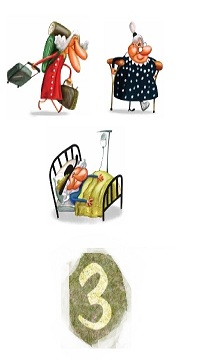
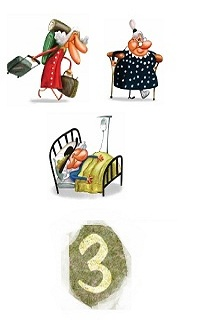
mais ajustes visuais
imgs diminuidas direto no arquivo, container e .card diminuido no css, distribuição diminuida no js!

diff --git a/style.css b/style.css
@@ -18,7 +18,7 @@ and (max-height : 540px) {
 
 #container {
     width: 1120px;
-    height: 770px; /*anteriormente 835px, se quebrar mudar junto com o "card.style.top" do js*/
+    height: 690px; /*anteriormente 835px, se quebrar mudar junto com o "card.style.top" do js ATT: agora de 770 pra 690.*/
     border: 1px solid #7C1E85;
     position: relative;
     margin: 10px auto;
@@ -29,7 +29,7 @@ and (max-height : 540px) {
 
 .card {
     width: 200px;
-    height: 360px;
+    height: 320px; /* reverter para 360px se necessário */
     position: absolute;
     border-radius: 10px;
     border: solid;

diff --git a/main.js b/main.js
@@ -38,9 +38,9 @@ function startGame(){
 
         let card = document.querySelector("#card" + i);
         card.style.left = i % 5 === 0 ? 5 + "px" : i % 5 * 225 + "px";
-        card.style.top = i < 5 ? 5 + "px" : 385 + "px";
+        card.style.top = i < 5 ? 5 + "px" : 345 + "px";
         //modifiquei aqui acima de 450px para 385px para ficar mais compacto
-        //qualquer coisa é só reverter essa modificação.
+        //qualquer coisa é só reverter essa modificação. ATT: agora 345px, mais uma tentativa.
 
         card.addEventListener('click' , flipCard , false);
 
